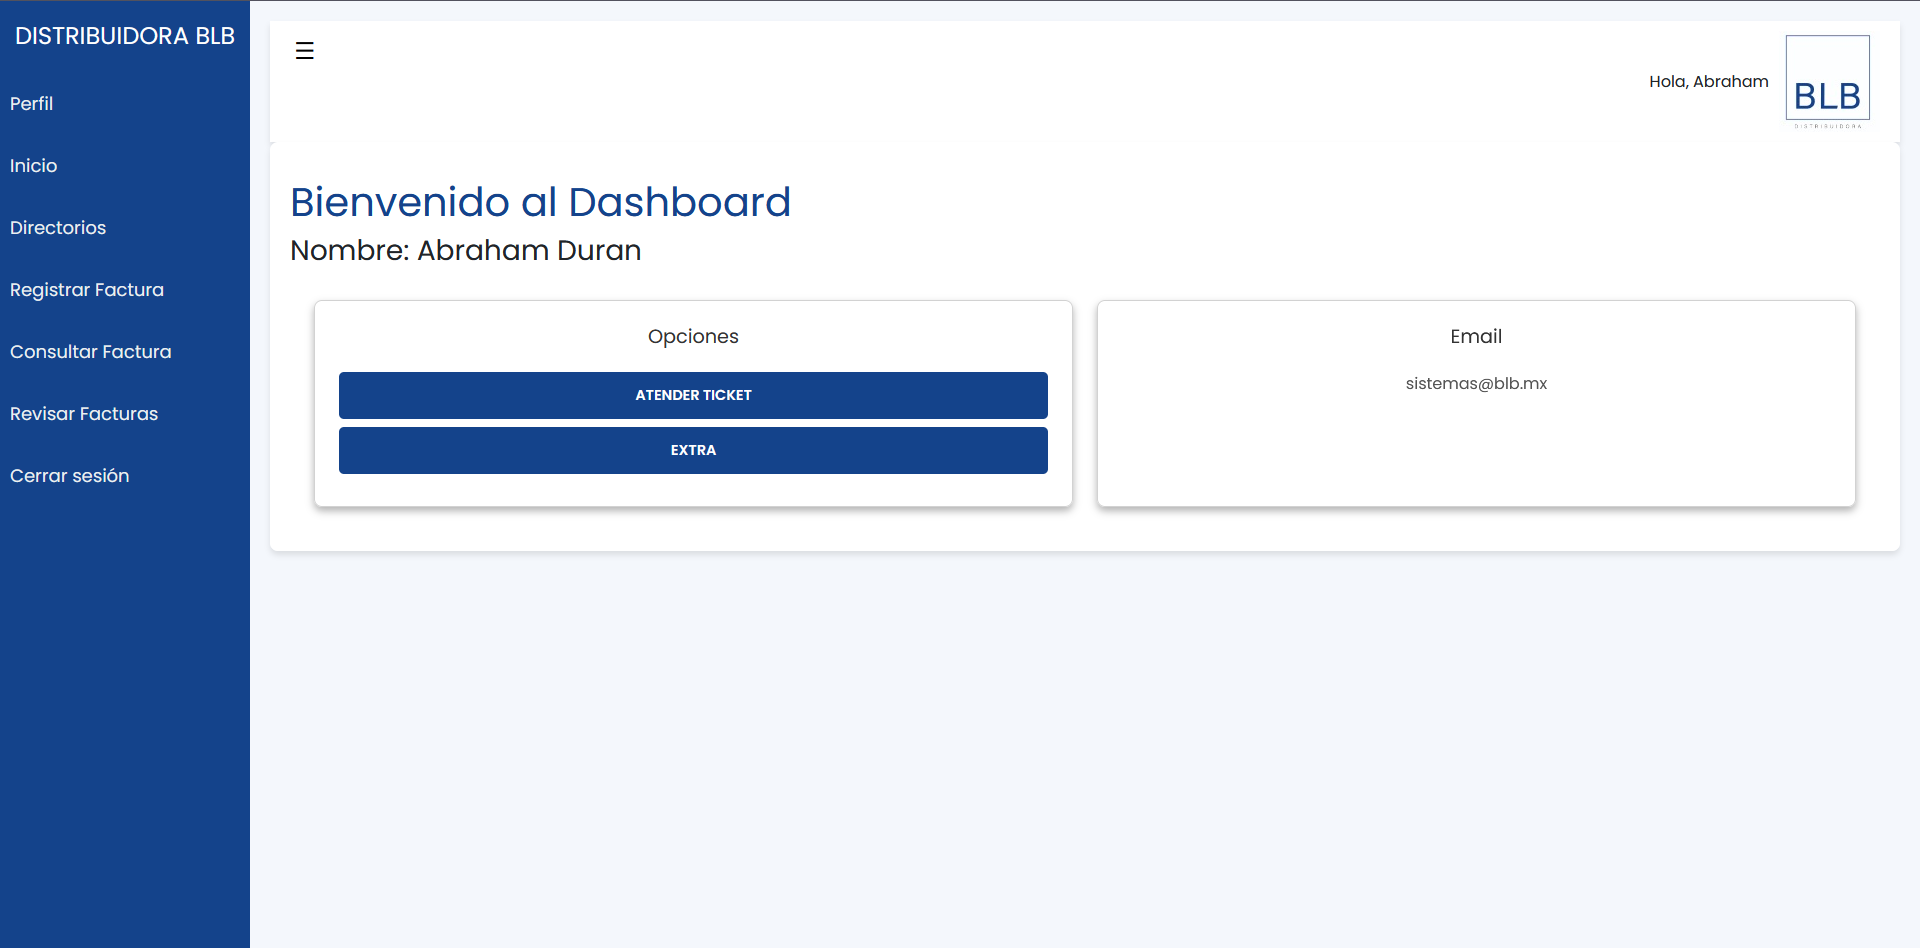
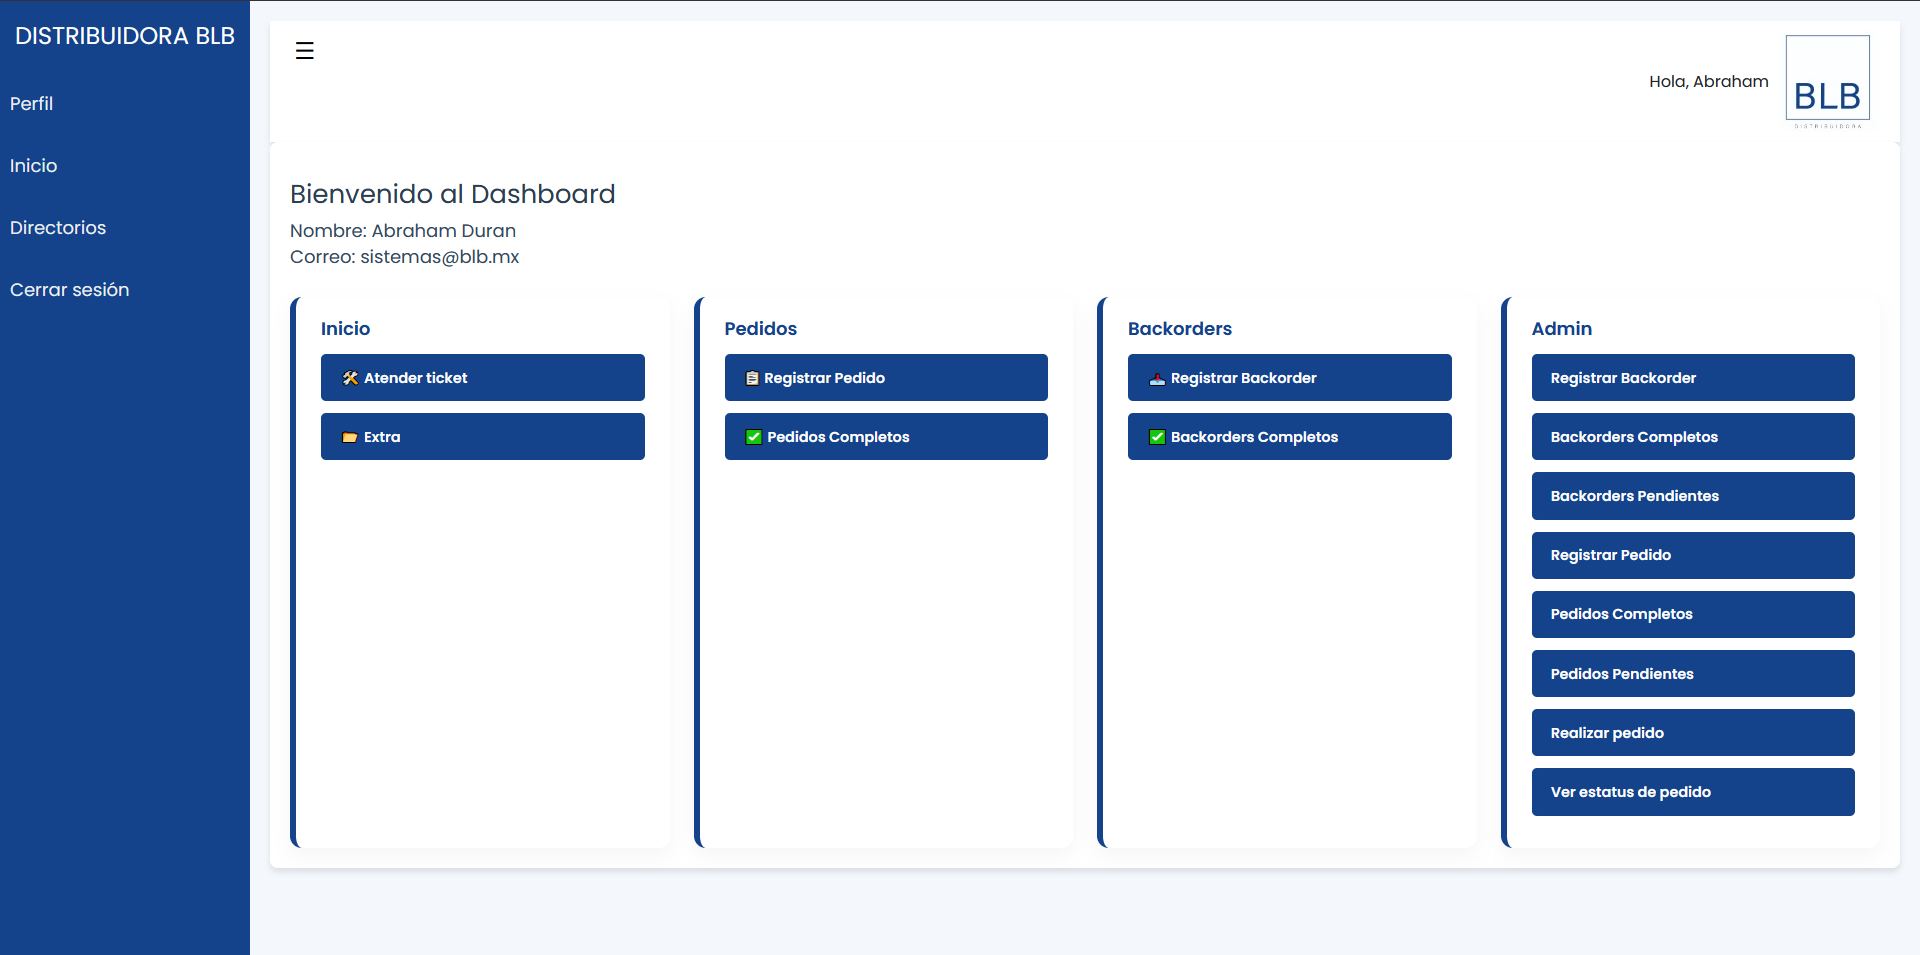
changes in profile html and change dashboard with new design

diff --git a/modulo_ventas/templates/profile.html b/modulo_ventas/templates/profile.html
@@ -60,7 +60,7 @@
 
     {% if it %}
     <section class="dashboard-module">
-        <h3 class="module-title">Info Test</h3>
+        <h3 class="module-title">Admin</h3>
         <ul class="options-list">
             <li><a href="{% url 'backorders' %}" class="action-link">Registrar Backorder</a></li>
             <li><a href="{% url 'guardar_backorder' %}" class="action-link">Backorders Completos</a></li> 
@@ -68,6 +68,8 @@
             <li><a href="{% url 'buscar_por_folio' %}" class="action-link">Registrar Pedido</a></li>
             <li><a href="{% url 'facturacion_final' %}" class="action-link">Pedidos Completos</a></li> 
             <li><a href="{% url 'pedidos_almacen'%}" class="action-link">Pedidos Pendientes</a></li>
+            <li><a href="{% url 'realizar_pedido' %}" class="action-link">Realizar pedido</a></li>
+            <li><a href="{% url 'ver_estatus_pedido' %}" class="action-link">Ver estatus de pedido</a></li>
         </ul>
     </section>
     {% endif %}
